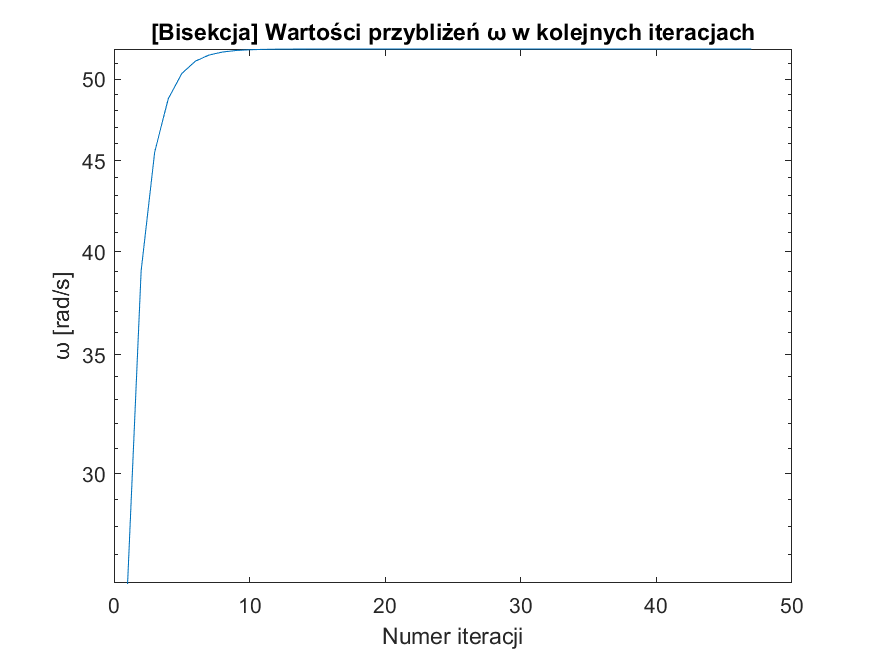
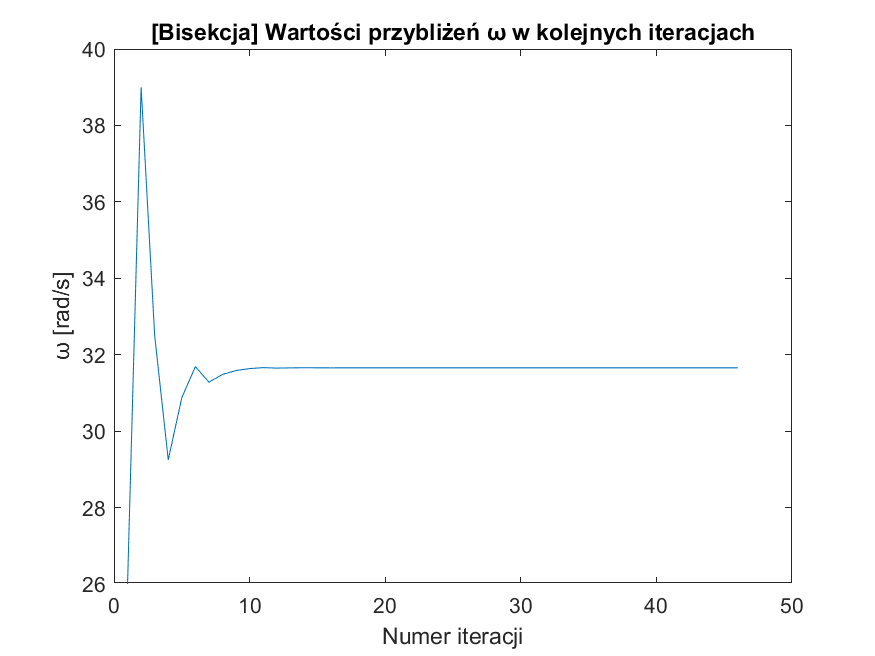
Fix plotting and impedance calculation

diff --git a/lab4/main_lab4.m b/lab4/main_lab4.m
@@ -3,24 +3,24 @@ clear all
 close all
 
 [xvect, xdif, fx, it_cnt] = bisect(1,60000,1e-3,@compute_parameters_number);
-semilogy(1:it_cnt, xvect)
+plot(1:it_cnt, xvect);
 title("[Bisekcja] Wartości przybliżeń N w kolejnych iteracjach");
 ylabel("N");
 xlabel("Numer iteracji");
 saveas(gcf, 'problem1_bisekcja_przybliżenia.png');
-plot(2:it_cnt, xdif)
+semilogy(2:it_cnt, xdif);
 title("[Bisekcja] Różnice pomiędzy wartościami N w kolejnych iteracjach");
 ylabel("Różnica pomiędzy poprz. i ob. wartością N");
 xlabel("Numer iteracji");
 saveas(gcf, 'problem1_bisekcja_różnice.png');
 
 [xvect, xdif, fx, it_cnt] = secant(1,60000,1e-3,@compute_parameters_number);
-semilogy(1:it_cnt, xvect)
+plot(1:it_cnt, xvect)
 title("[M. siecznych] Wartości przybliżeń N w kolejnych iteracjach");
 ylabel("Liczba parametrów wejściowych N");
 xlabel("Numer iteracji");
 saveas(gcf, 'problem1_metoda_siecznych_przybliżenia.png');
-plot(2:it_cnt, xdif)
+semilogy(2:it_cnt, xdif);
 title("[M. siecznych] Różnice pomiędzy wartościami N w kolejnych iteracjach");
 ylabel("Różnica pomiędzy poprz. i ob. wartością N");
 xlabel("Numer iteracji");
@@ -28,24 +28,24 @@ saveas(gcf, 'problem1_metoda_siecznych_różnice.png');
 
 
 [xvect, xdif, fx, it_cnt] = bisect(0,52,1e-12,@compute_impedance);
-semilogy(1:it_cnt, xvect)
+plot(1:it_cnt, xvect)
 title("[Bisekcja] Wartości przybliżeń ω w kolejnych iteracjach");
 ylabel("ω [rad/s]");
 xlabel("Numer iteracji");
 saveas(gcf, 'problem2_bisekcja_przybliżenia.png');
-plot(2:it_cnt, xdif)
+semilogy(2:it_cnt, xdif);
 title("[Bisekcja] Różnice pomiędzy wartościami ω w kolejnych iteracjach");
 ylabel("Różnica pomiędzy poprz. i ob. wartością ω");
 xlabel("Numer iteracji");
 saveas(gcf, 'problem2_bisekcja_różnice.png');
 
 [xvect, xdif, fx, it_cnt] = secant(0,52,1e-12,@compute_impedance);
-semilogy(1:it_cnt, xvect)
+plot(1:it_cnt, xvect)
 title("[M. siecznych] Wartości przybliżeń ω w kolejnych iteracjach");
 ylabel("ω [rad/s]");
 xlabel("Numer iteracji");
 saveas(gcf, 'problem2_metoda_siecznych_przybliżenia.png');
-plot(2:it_cnt, xdif)
+semilogy(2:it_cnt, xdif);
 title("[M. siecznych] Różnice pomiędzy wartościami ω w kolejnych iteracjach");
 ylabel("Różnica pomiędzy poprz. i ob. wartością ω");
 xlabel("Numer iteracji");
@@ -54,29 +54,29 @@ saveas(gcf, 'problem2_metoda_siecznych_różnice.png');
 
 
 [xvect, xdif, fx, it_cnt] = bisect(0,52,1e-12,@compute_time);
-semilogy(1:it_cnt, xvect)
+plot(1:it_cnt, xvect)
 title("[Bisekcja] Wartości przybliżeń t w kolejnych iteracjach");
 ylabel("t [s]");
 xlabel("Numer iteracji");
 saveas(gcf, 'problem3_bisekcja_przybliżenia.png');
-plot(2:it_cnt, xdif)
+semilogy(2:it_cnt, xdif);
 title("[Bisekcja] Różnice pomiędzy wartościami t w kolejnych iteracjach");
 ylabel("Różnica pomiędzy poprz. i ob. wartością t [s]");
 xlabel("Numer iteracji");
 saveas(gcf, 'problem3_bisekcja_różnice.png');
 
 [xvect, xdif, fx, it_cnt] = secant(0,52,1e-12,@compute_time);
-semilogy(1:it_cnt, xvect)
+plot(1:it_cnt, xvect)
 title("[M. siecznych] Wartości przybliżeń t w kolejnych iteracjach");
 ylabel("t [s]");
 xlabel("Numer iteracji");
 saveas(gcf, 'problem3_metoda_siecznych_przybliżenia.png');
-plot(2:it_cnt, xdif)
+semilogy(2:it_cnt, xdif)
 title("[M. siecznych] Różnice pomiędzy wartościami t w kolejnych iteracjach");
 ylabel("Różnica pomiędzy poprz. i ob. wartością t [s]");
 xlabel("Numer iteracji");
 saveas(gcf, 'problem3_metoda_siecznych_różnice.png');
 
-options = optimset('Display','iter');
-fzero(@tan,6, options)
-fzero(@tan,4.5, options)
+% options = optimset('Display','iter');
+% fzero(@tan,6, options)
+% fzero(@tan,4.5, options)

diff --git a/lab4/compute_impedance.m b/lab4/compute_impedance.m
@@ -1,7 +1,8 @@
 function [value] = compute_impedance( omega )
     R = 725;
-    C = 8*10^(-5);
+    C = 8*10^-5;
     L = 2;
-    Z = 1/sqrt(1/R^2+(omega*C-1/omega*L)^2);
+    Z = 1/sqrt(1/(R^2)+(omega*C-1/(omega*L))^2);
     value = Z - 75;
+    return;
 end

diff --git a/lab4/compute_time.m b/lab4/compute_time.m
@@ -5,4 +5,5 @@ function [value] = compute_time( t )
     u = 2000;
     v = u*log(m_zero/(m_zero-q*t))-g*t;
     value = v - 750;
+    return;
 end

diff --git a/lab4/compute_parameters_number.m b/lab4/compute_parameters_number.m
@@ -1,4 +1,5 @@
 function [value] = compute_parameters_number( N )
     t = (N^1.43+N^1.14)/1000;
     value = t - 5000;
+    return;
 end
